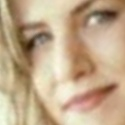
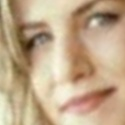
it works dubiously twin

diff --git a/main.py b/main.py
@@ -29,6 +29,9 @@ MODELS_DIR = os.path.join(os.path.dirname(os.path.abspath(__file__)), 'models')
 os.makedirs(MODELS_DIR, exist_ok=True)
  
 DETECTOR_MODEL_PATH   = os.path.join(MODELS_DIR, 'blaze_face_short_range.tflite')
+# CHANGE: added the full-range detector model path + URL
+# short range is good for selfie-distance faces, full range handles
+# faces that are further away or at more of an angle (like Monica in img 7)
 DETECTOR_FULL_MODEL_PATH = os.path.join(MODELS_DIR, 'blaze_face_full_range.tflite')
 DETECTOR_FULL_URL = ('https://storage.googleapis.com/mediapipe-models/'
                      'face_detector/blaze_face_full_range/float16/1/'
@@ -57,7 +60,7 @@ def _download_if_missing(path, url):
  
  
 _download_if_missing(DETECTOR_MODEL_PATH,   DETECTOR_URL)
-_download_if_missing(DETECTOR_FULL_MODEL_PATH, DETECTOR_FULL_URL)
+_download_if_missing(DETECTOR_FULL_MODEL_PATH, DETECTOR_FULL_URL) # CHANGE: download full range too
 _download_if_missing(LANDMARKER_MODEL_PATH, LANDMARKER_URL)
 _download_if_missing(SFACE_MODEL_PATH, SFACE_URL)
  
@@ -93,7 +96,10 @@ def skin_mask(bgr_img):
  
  
 def skin_ratio_in_box(mask, x, y, w, h):
-    # Only check top 60% of box - avoids clothing at bottom affecting score
+    # CHANGE: only check the top 60% of the bounding box instead of the whole thing
+    # reason: dark clothing at the bottom of a box was dragging the skin ratio down
+    # and causing faces like Monica (dark outfit) to get filtered out. checking
+    # just the face region fixes this without lowering the threshold everywhere
     face_h = int(h * 0.6)
     roi = mask[y:y+face_h, x:x+w]
     if roi.size == 0:
@@ -105,6 +111,8 @@ def skin_ratio_in_box(mask, x, y, w, h):
 # FACE DETECTION
 # ─────────────────────────────────────────────
  
+# CHANGE: split the old _build_detector() into two separate functions
+# one for short range (close/frontal faces) and one for full range (angled/distant)
 def _build_detector_short():
     opts = mp_vision.FaceDetectorOptions(
         base_options=mp_python.BaseOptions(model_asset_path=DETECTOR_MODEL_PATH),
@@ -119,6 +127,11 @@ def _build_detector_full():
     )
     return mp_vision.FaceDetector.create_from_options(opts)
 
+# CHANGE: added OpenCV Haar cascade as a third detector
+# mediapipe was completely missing Monica in image 7 (her face is slightly turned
+# and darker). Haar uses a totally different algorithm and catches faces the
+# deep learning models miss. minNeighbors=5 keeps false positives low,
+# and we filter by position + aspect ratio to avoid detecting chests/backgrounds
 def _detect_opencv_haar(bgr_img):
     gray = cv2.cvtColor(bgr_img, cv2.COLOR_BGR2GRAY)
     cascade = cv2.CascadeClassifier(cv2.data.haarcascades + 'haarcascade_frontalface_default.xml')
@@ -133,14 +146,21 @@ def _detect_opencv_haar(bgr_img):
         for (x, y, w, h) in faces:
             h_img = bgr_img.shape[0]
             box_centre_y = y + h / 2
+            # skip boxes in the bottom 25% of the image (likely bodies not faces)
             if box_centre_y > h_img * 0.75:
                 continue
+            # faces are roughly square, skip anything too wide or too tall
             aspect = w / max(h, 1)
             if aspect < 0.7 or aspect > 1.4:
                 continue
+            # CHANGE: score of 1.0 flags this as a trusted Haar detection
+            # this lets it bypass the skin filter (see detect_faces below)
+            # since Haar with minNeighbors=5 is already pretty strict
             raw.append((x, y, w, h, 1.0))  # high score = trusted
     return raw
  
+# CHANGE: completely rewrote detect_faces to run all three detectors
+# old version only used short range mediapipe
 def detect_faces(bgr_img, skin_threshold=0.05):
     h_img, w_img = bgr_img.shape[:2]
     s_mask = skin_mask(bgr_img)
@@ -169,11 +189,12 @@ def detect_faces(bgr_img, skin_threshold=0.05):
         skin = skin_ratio_in_box(s_mask, x, y, w, h)
         print(f"  x={x} y={y} w={w} h={h} score={s:.2f} skin={skin:.3f}")
 
-    # Use skin colour to filter false positives
+    # CHANGE: skin filter now bypasses for Haar detections (score == 1.0)
+    # mediapipe detections still go through the skin check as before
     filtered = [(x, y, w, h, s) for (x, y, w, h, s) in raw
                 if s >= 1.0 or skin_ratio_in_box(s_mask, x, y, w, h) >= skin_threshold]
     if not filtered:
-        filtered = raw
+        filtered = raw # fallback: keep all if skin filter removes everything
     if not filtered:
         return []
 
@@ -256,6 +277,9 @@ _NOSE_TIP_IDX  = 4
  
  
 def _build_landmarker():
+    # CHANGE: lowered all confidence thresholds from 0.4 to 0.2
+    # FaceMesh was only finding 2/3 landmark sets for image 7 at 0.4
+    # lowering to 0.2 helps it pick up faces that mediapipe found borderline
     opts = mp_vision.FaceLandmarkerOptions(
         base_options=mp_python.BaseOptions(model_asset_path=LANDMARKER_MODEL_PATH),
         num_faces=4,
@@ -416,13 +440,18 @@ def process_image(bgr_img, draw=True):
             )
 
         re, le, nt = lmks
-
+        
+        # NOTE: we intentionally do NOT apply the None fallback here yet 
+        # we need the raw lmks value to decide whether to run duplicate check 2
+        
         current_centre = np.array([x + w / 2, y + h / 2], dtype=np.float32)
         current_triplet = np.array([re, le, nt], dtype=np.float32)
 
         is_duplicate = False
 
-        # Duplicate check 1: same source-image face location.
+        # Duplicate check 1: same box centre (threshold lowered from 8 to 5)
+        # CHANGE: tightened from 8→5 pixels so faces that are close together
+        # (like in image 7) don't incorrectly get flagged as duplicates
         for old_centre in kept_box_centres:
             centre_dist = np.linalg.norm(current_centre - old_centre)
             if centre_dist < 5:
@@ -551,7 +580,7 @@ def extract_embedding(face_bgr):
 # CLUSTERING
 # ─────────────────────────────────────────────
  
-def cluster_identities(embeddings, distance_threshold=0.65):
+def cluster_identities(embeddings, distance_threshold=0.80):
     if not embeddings:
         return np.array([], dtype=int)
 

diff --git a/README.md b/README.md
@@ -29,6 +29,8 @@ pip install -r requirements.txt
 
 **3. Run the application:**
 ```bash
+python3 -m venv venv
+venv\Scripts\activate
 python CITS4402_Script.py
 ```
 
